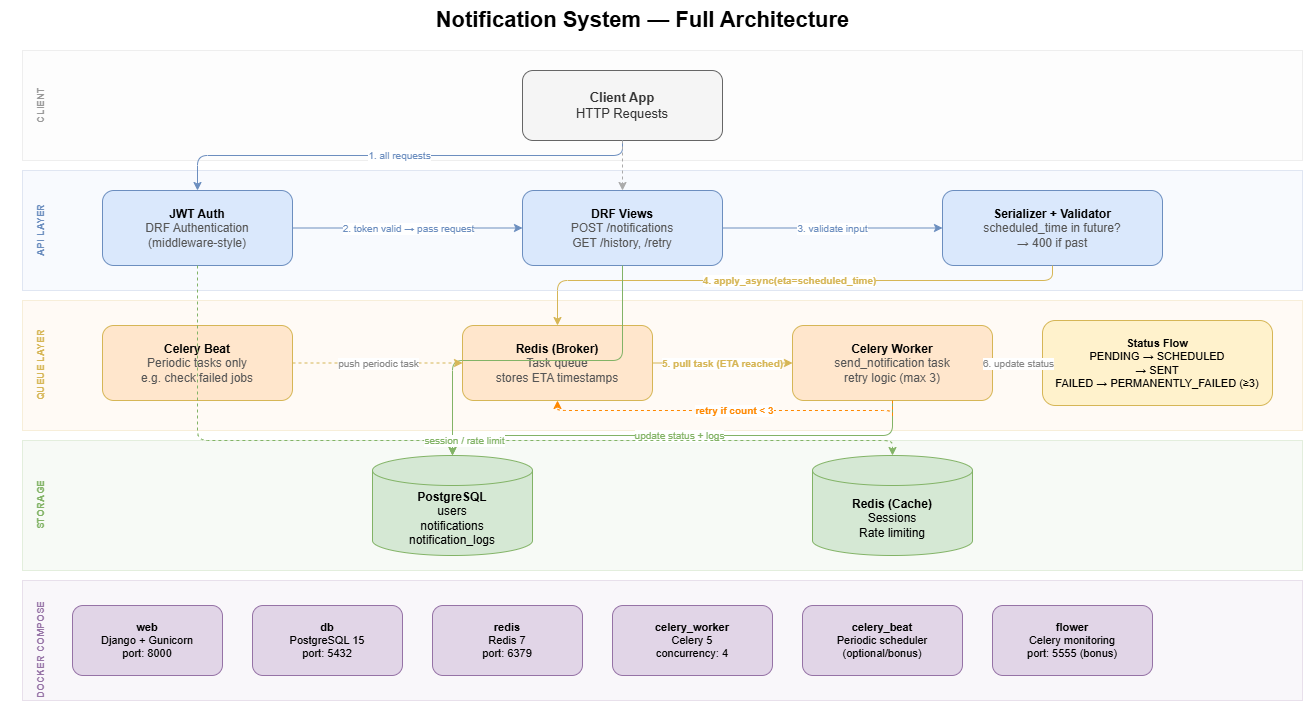
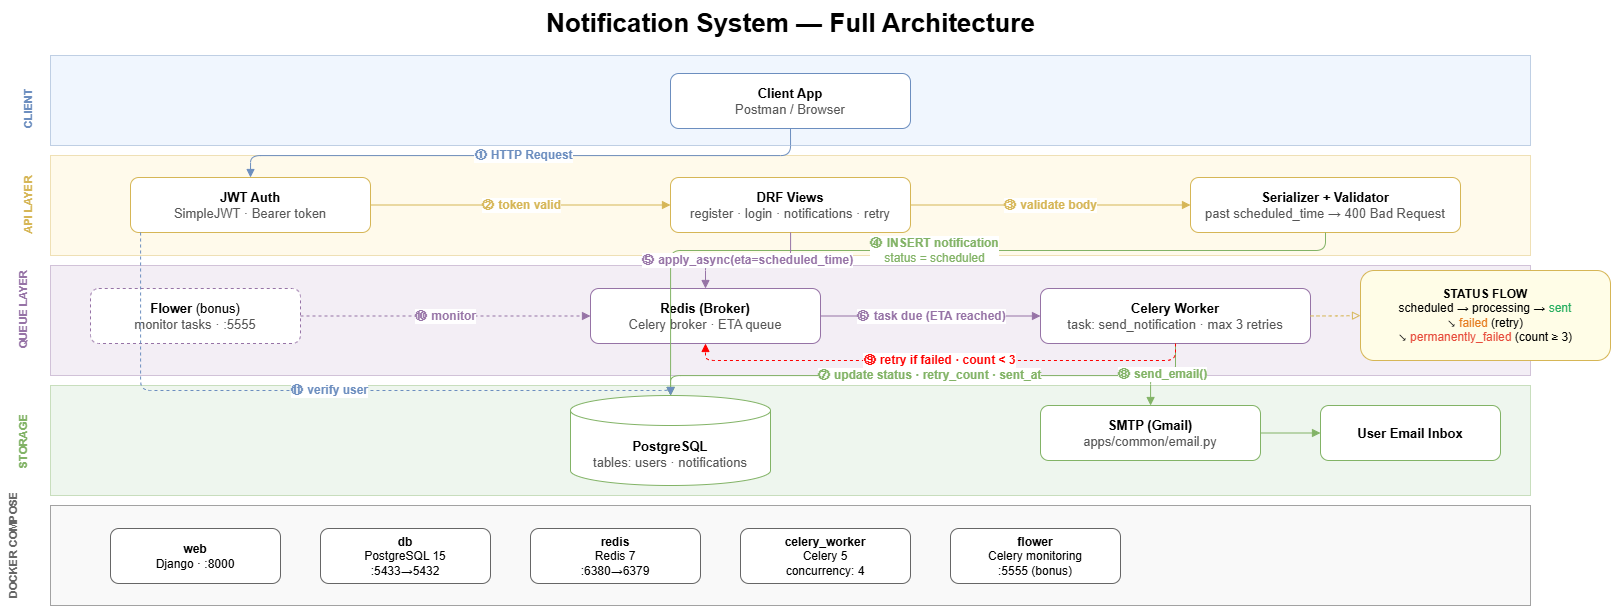
docs: add architecture diagram and draw.io guide

diff --git a/README.md b/README.md
@@ -42,28 +42,36 @@ A per-user notification API built with **Django** and **Django REST Framework**.
 
 ## Architecture
 
-```text
- Client (Postman / Browser)
-        │
-        ▼ JWT
- ┌──────────────┐     ┌─────────────┐
- │  Django API  │────▶│ PostgreSQL  │
- │  (DRF)       │     │ notifications│
- └──────┬───────┘     └─────────────┘
-        │ enqueue (eta = scheduled_time)
-        ▼
- ┌──────────────┐     ┌─────────────┐
- │    Redis     │◀───▶│ Celery      │
- │   (broker)   │     │ Worker      │
- └──────────────┘     └──────┬──────┘
-                             │ SMTP
-                             ▼
-                        Email inbox
+![Notification System Architecture](./docs/architecture.png)
 
- Flower ── monitors Celery tasks (port 5555)
+<details>
+<summary><strong>Text flow (same diagram)</strong></summary>
+
+```text
+Client → JWT Auth → DRF Views → Serializer (future scheduled_time?)
+              │                              │
+              ▼                              ▼
+         PostgreSQL (users)          Save notification
+              │                              │
+              │                              ▼
+              │                    enqueue apply_async(eta)
+              │                              │
+              │                              ▼
+              │                         Redis (broker)
+              │                              │
+              │                              ▼
+              │                      Celery Worker
+              │                         │      │
+              │                         │      └──► SMTP → Email
+              │                         ▼
+              └────────────────── update status (sent / failed)
+
+Flower monitors Celery · Docker: web, db, redis, celery_worker, flower
 ```
 
-Optional diagram: add `docs/architecture.png` and link it here if you export one from draw.io.
+</details>
+
+To edit the diagram: open [draw.io](https://app.diagrams.net/) and follow [`docs/drawio-architecture-guide.md`](./docs/drawio-architecture-guide.md). Export as `docs/architecture.png`.
 
 ---
 